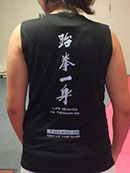
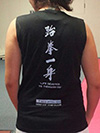
Showing random merchandising item in sidebar

diff --git a/src/css/modules.css b/src/css/modules.css
@@ -130,6 +130,10 @@
 	font-size: 85%;
 }
 
+.sidebar a {
+	color: #fff;
+}
+
 .sidebar > .backdrop:after {
 	top: 0;
 	left: 0;
@@ -141,6 +145,20 @@
 	position: relative;
 	overflow: hidden;
 	padding: 1em 2.5em;
+	min-height: 25em;
+}
+
+.merch-title {
+	margin-bottom: .5em;
+}
+
+.merch-desc {
+	margin-top: 0;
+}
+
+.merch-get {
+	text-align: right;
+	margin: 1.5em 0 1.2em;
 }
 
 

diff --git a/src/dojang.php b/src/dojang.php
@@ -48,7 +48,7 @@
 									<img class="instr-portrait" src="images/jason-lai.png" width="500" height="220" alt="Jason Lai">
 									<div class="instr-caption">
 										<h3 class="section-heading-sub">Jason Lai</h3>
-										<p>Mr Jason Lai has been training for over 25 years, and has been a member of the club for 16. He achieved his <strong>6th degree Black Belt</strong> in December 2006, and received the <em>Outstanding Contribution</em> award from RMIT University in 2009. Mr Lai was also a coach for the Australian Team for the 2010 Junior and Veterans World Championships in Minsk, Belarus.</p>
+										<p>Mr Jason Lai has been training for over 25 years, and has been a member of the club for 16. He achieved his <strong>6th degree Black Belt</strong> in December 2006, and received the <em>Outstanding Contribution</em> award from RMIT University in 2009. Mr Lai was also a <strong>coach</strong> for the <strong>Australian Team</strong> for the 2010 Junior and Veterans <strong>World Championships</strong> in Minsk, Belarus.</p>
 									</div>
 								</section>
 								<section class="instr-profile hidden" tabindex="-1" aria-hidden="true">
@@ -80,7 +80,7 @@
 							</section>
 							<section class="exec-member">
 								<img class="exec-pic" src="http://placehold.it/150x150" width="150" height="150" alt="">
-								<p class="exec-caption"><span>Vice-President</span><br>Cath Cachia</p>
+								<p class="exec-caption"><span>Vice-President</span><br>Kidist Kifle</p>
 							</section>
 							<section class="exec-member">
 								<img class="exec-pic" src="http://placehold.it/150x150" width="150" height="150" alt="">
@@ -88,7 +88,7 @@
 							</section>
 							<section class="exec-member">
 								<img class="exec-pic" src="http://placehold.it/150x150" width="150" height="150" alt="">
-								<p class="exec-caption"><span>Secretary</span><br>Kidist Kifle</p>
+								<p class="exec-caption"><span>Secretary</span><br>Yunh Ying Hi</p>
 							</section>
 						</div>
 					</section>

diff --git a/src/includes/sidebar.php b/src/includes/sidebar.php
@@ -1,9 +1,17 @@
+<?php 
+// Read merchandising.xml 
+$merchXML = simplexml_load_file("merchandising.xml");
+// Get random merchandising item
+$item = $merchXML->item[rand(0, count($merchXML->item) - 1)];
+?>
 <aside class="sidebar lay-side" role="complementary">
 	<div class="backdrop">
 		<div class="backdrop-content">
-			<p>Lorem ipsum dolor sit amet, consectetuer adipiscing elit, sed diam nonummy nibh euismod tincidunt ut laoreet dolore magna aliquam erat volutpat.</p>
-			<p>Ut wisi enim ad minim veniam, quis nostrud exerci tation ullamcorper suscipit lobortis nisl ut aliquip ex ea commodo consequat.</p>
-			<p>Duis autem vel eum iriure dolor in hendrerit in vulputate velit esse molestie consequat, vel illum dolore.</p>
+			<h3><a class="link-inv" href="https://rmitlink.rmit.edu.au/Clubs/Club.aspx?CID=30" target="_blank">Club Shop</a></h3>
+			<a href="<?php echo $item->link; ?>" target="_blank"><img class="respimg-fit" src="images/merchandising/<?php echo $item->image['filename']; ?>" width="<?php echo $item->image['width']; ?>" height="<?php echo $item->image['height']; ?>" alt=""></a>
+			<h4 class="merch-title"><a class="link-inv" href="<?php echo $item->link; ?>" target="_blank"><?php echo $item->title; ?></a></h4>
+			<p class="merch-desc"><?php echo $item->description; ?></p>
+			<p class="merch-get"><a href="<?php echo $item->link; ?>" target="_blank">Get it!</a></p>
 		</div>
 	</div>
 </aside>
